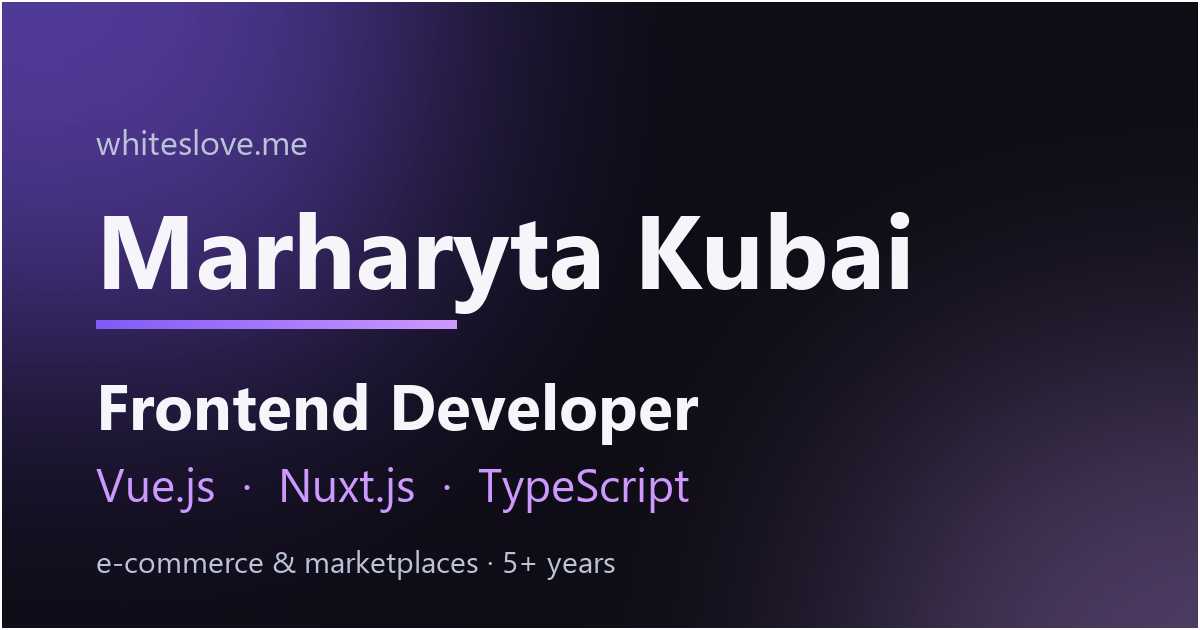
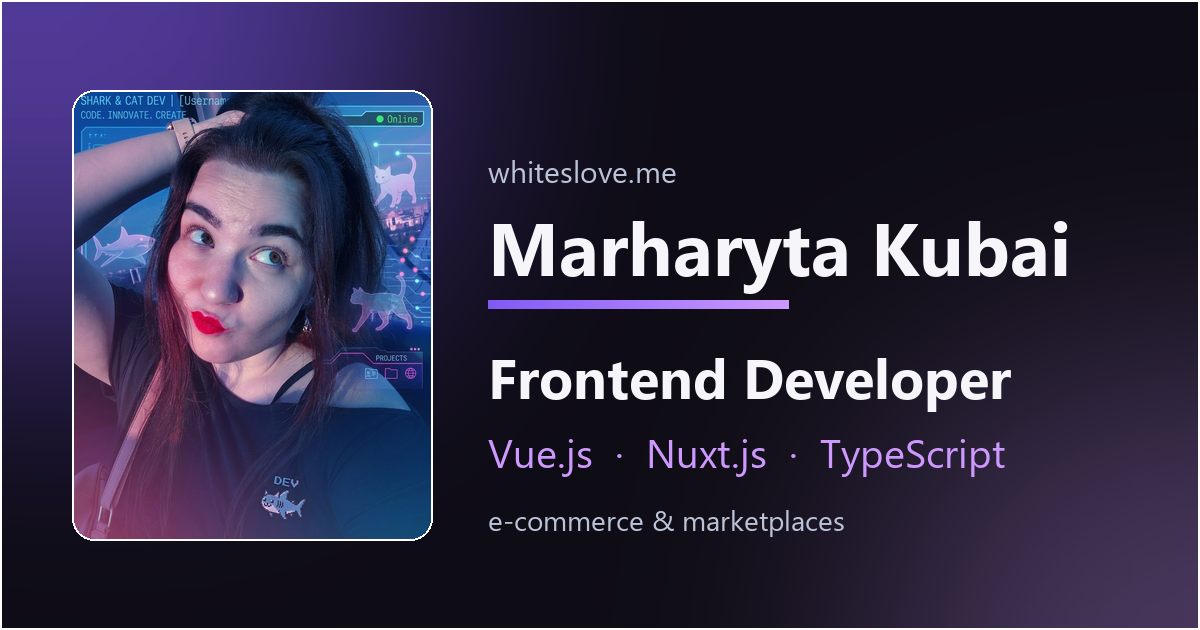
Home polish: real photo, years+months experience, new OG, cleanup, /cv sync
- Hero: use public/images/photo.png in the portrait frame (4:5, object-fit cover),
  replacing the shark-emoji placeholder.
- Experience stat now shows auto years+months (e.g. "6 лет 3 мес." / "6 yr 3 mo")
  via useExperienceYears.labelYM, and drops the "считается сам / counts itself" copy.
- OG image rebuilt with the real photo + name/role/stack (no baked-in year, since a
  static image can't auto-update).
- Remove now-orphaned images (bg-shape, logo, tab-bg-shape) — their components were
  deleted in the full-static teardown. public/images is now just og-home + photo.
- /cv: sync the BPC entry with the home card (Velocity, high-load, Docker/CI-CD,
  close work with backend/testers/designer) and add Velocity to skills.
- server/utils/redis.ts: add an 'error' handler + fail-fast options
  (maxRetriesPerRequest, enableOfflineQueue:false) so a Redis outage degrades
  gracefully (empty list / live fetch) instead of buffering and hanging requests.

Changed region(s): [[0.0617, 0.1206, 0.8942, 0.9349], [0.6783, 0.6937, 0.8325, 0.754], [0.4008, 0.2413, 0.555, 0.3016]]

diff --git a/app/pages/cv/index.vue b/app/pages/cv/index.vue
@@ -28,7 +28,7 @@ const links = {
 const skills = {
   core: ["JavaScript", "TypeScript", "HTML", "CSS / SCSS", "Responsive layout", "React"],
   frameworks: ["Vue", "Nuxt", "Vite", "Pinia", "Vuex"],
-  ui: ["Tailwind", "Nuxt UI", "Vuetify", "Email template coding", "Liquid (Shopify)", "Freemarker"],
+  ui: ["Tailwind", "Nuxt UI", "Vuetify", "Email template coding", "Liquid (Shopify)", "Freemarker", "Velocity"],
   platform: ["Node.js", "Python", "FastAPI", "REST APIs", "Cron jobs", "HTML parsing", "Electron", "Telegram / Discord Bot API"],
   tooling: ["Git", "Docker", "CI/CD", "Swagger", "PostgreSQL", "MySQL", "MongoDB", "Redis", "Jira", "Figma"],
 };
@@ -75,20 +75,22 @@ const experience = [
     start: "2021-06",
     end: null, // present
     ru: [
-      "Разработка и поддержка frontend-функций маркетплейса.",
-      "Реализация и поддержка UI на шаблонах Freemarker.",
+      "Разработка и поддержка frontend-функций маркетплейса под high-load.",
+      "Реализация и поддержка UI на шаблонах Freemarker и Velocity.",
       "Улучшение и исправление адаптивной вёрстки под разные устройства.",
       "Создание и поддержка продакшн-шаблонов email.",
+      "Docker и CI/CD в повседневной работе; деплой и релизы наравне с разработкой.",
       "Работа с существующей кодовой базой и бизнес-ориентированными изменениями UI.",
-      "Поддержка и развитие существующих e-commerce решений.",
+      "Тесное взаимодействие с бэкендом, тестировщиками и дизайнером.",
     ],
     en: [
-      "Development and support of marketplace frontend features.",
-      "Implementation and maintenance of UI using Freemarker templates.",
+      "Development and support of high-load marketplace frontend features.",
+      "Implementation and maintenance of UI using Freemarker and Velocity templates.",
       "Improving and fixing responsive layouts across different devices.",
       "Creating and maintaining production email templates.",
+      "Docker and CI/CD day to day; deploys and releases alongside development.",
       "Working with an existing codebase and business-driven UI changes.",
-      "Supporting and extending existing e-commerce solutions.",
+      "Close work with the backend, testers and the designer.",
     ],
   },
   {

diff --git a/app/components/redesign/HeroSection.vue b/app/components/redesign/HeroSection.vue
@@ -5,7 +5,7 @@ import { useExperienceYears } from "~/composables/useExperienceYears";
 
 const content = useHomeContent();
 const hero = computed(() => content.value.hero);
-const { label: expLabel } = useExperienceYears();
+const { labelYM } = useExperienceYears();
 </script>
 
 <template>
@@ -22,7 +22,7 @@ const { label: expLabel } = useExperienceYears();
           </div>
           <div class="stat-row">
             <div class="stat">
-              <b>{{ expLabel }}</b>
+              <b>{{ labelYM }}</b>
               <span class="mono">{{ hero.statPracticeLabel }}</span>
             </div>
             <div class="stat">
@@ -34,8 +34,18 @@ const { label: expLabel } = useExperienceYears();
 
         <div class="hero-portrait">
           <div class="portrait-frame">
-            <redesign-emoji cp="1f988" :size="44" alt="акула" />
-            <div class="portrait-placeholder">{{ hero.portraitPlaceholder }}</div>
+            <nuxt-img
+                class="portrait-img"
+                src="/images/photo.png"
+                alt="Marharyta Kubai"
+                width="896"
+                height="1195"
+                sizes="(max-width: 960px) 88vw, 420px"
+                format="webp"
+                :quality="80"
+                fetchpriority="high"
+                preload
+            />
           </div>
           <div class="portrait-caption">
             <redesign-emoji cp="1f63b" :size="15" alt="кот" />
@@ -126,22 +136,18 @@ h1 .accent {
   position: relative;
 }
 .portrait-frame {
-  aspect-ratio: 1 / 1;
+  aspect-ratio: 4 / 5;
   border-radius: 16px;
   overflow: hidden;
   background: var(--bg-panel);
   border: 1px solid var(--line);
-  display: flex;
-  align-items: center;
-  justify-content: center;
-  flex-direction: column;
-  gap: 14px;
 }
-.portrait-placeholder {
-  font-size: 13.5px;
-  color: var(--text-muted);
-  text-align: center;
-  padding: 0 24px;
+.portrait-img {
+  width: 100%;
+  height: 100%;
+  object-fit: cover;
+  object-position: center top;
+  display: block;
 }
 .portrait-caption {
   margin-top: 14px;

diff --git a/app/composables/useExperienceYears.ts b/app/composables/useExperienceYears.ts
@@ -1,4 +1,4 @@
-// Auto-calculated years of experience from the first job (ITSUA, 2020-05).
+// Auto-calculated experience from the first job (ITSUA, 2020-05).
 // Client + SSR safe (recomputes from the current date), never hardcoded.
 
 export function pluralizeYears(n: number): string {
@@ -17,15 +17,36 @@ export function calcExperienceYears(startDate: Date): number {
   return years;
 }
 
+export function calcExperienceYM(startDate: Date): { years: number; months: number } {
+  const now = new Date();
+  let years = now.getFullYear() - startDate.getFullYear();
+  let months = now.getMonth() - startDate.getMonth();
+  if (now.getDate() < startDate.getDate()) months -= 1;
+  if (months < 0) {
+    years -= 1;
+    months += 12;
+  }
+  return { years, months };
+}
+
 const CAREER_START = new Date("2020-05-01"); // first job (ITSUA) from the CV
 
 export function useExperienceYears() {
+  const { locale } = useI18n();
+
   const years = computed(() => calcExperienceYears(CAREER_START));
   const labelRu = computed(() => `${years.value} ${pluralizeYears(years.value)}`);
   const labelEn = computed(() => `${years.value} year${years.value === 1 ? "" : "s"}`);
-
-  const { locale } = useI18n();
   const label = computed(() => (locale.value === "en" ? labelEn.value : labelRu.value));
 
-  return { years, label, labelRu, labelEn };
+  // Years + months, e.g. "6 лет 3 мес." / "6 yr 3 mo" (months omitted at 0).
+  const labelYM = computed(() => {
+    const { years: y, months: m } = calcExperienceYM(CAREER_START);
+    const en = locale.value === "en";
+    const yStr = en ? `${y} yr` : `${y} ${pluralizeYears(y)}`;
+    if (m <= 0) return yStr;
+    return en ? `${yStr} ${m} mo` : `${yStr} ${m} мес.`;
+  });
+
+  return { years, label, labelRu, labelEn, labelYM };
 }

diff --git a/app/composables/useHomeContent.ts b/app/composables/useHomeContent.ts
@@ -59,7 +59,7 @@ const RU = {
     lead: "Маргарита Кубай. Пять лет держу production-фронтенд e-commerce и маркетплейсов на Vue.js и Nuxt.js — и не останавливаюсь на вёрстке: пишу backend-логику, настраиваю CI/CD и деплой, разбираю чужой легаси. Беру задачу целиком, а не только свою часть.",
     ctaPrimary: "Связаться со мной",
     ctaText: "Что я умею",
-    statPracticeLabel: "практики, считается сам",
+    statPracticeLabel: "практики",
     statCompanies: "компании, реальный опыт",
     portraitPlaceholder: "место для живой фотографии или иллюстрации-портрета",
     portraitCaption: "глажу котов между спринтами",
@@ -193,7 +193,7 @@ const EN: typeof RU = {
     lead: "Marharyta Kubai. Five years keeping production e-commerce and marketplace frontends running on Vue.js and Nuxt.js — and I don't stop at markup: I write backend logic, set up CI/CD and deploys, and untangle other people's legacy. I take the whole task, not just my slice.",
     ctaPrimary: "Get in touch",
     ctaText: "What I do",
-    statPracticeLabel: "of practice, counts itself",
+    statPracticeLabel: "of practice",
     statCompanies: "companies, real experience",
     portraitPlaceholder: "space for a real photo or portrait illustration",
     portraitCaption: "petting cats between sprints",

diff --git a/server/utils/redis.ts b/server/utils/redis.ts
@@ -4,7 +4,18 @@ let redis: Redis;
 
 export function useRedis() {
     if (!redis) {
-        redis = new Redis(process.env.REDIS_URL || "redis://localhost:6379");
+        redis = new Redis(process.env.REDIS_URL || "redis://localhost:6379", {
+            // Fail commands fast when Redis is unavailable so the callers'
+            // try/catch fallbacks (empty list / live fetch) kick in instead of
+            // buffering commands and hanging the request until reconnect.
+            maxRetriesPerRequest: 2,
+            enableOfflineQueue: false,
+        });
+        // Without an 'error' listener, ioredis connection errors surface as
+        // unhandled 'error' events (noisy, and can crash the process).
+        redis.on("error", (err) => {
+            console.error("[redis] connection error:", err.message);
+        });
     }
     return redis;
 }
